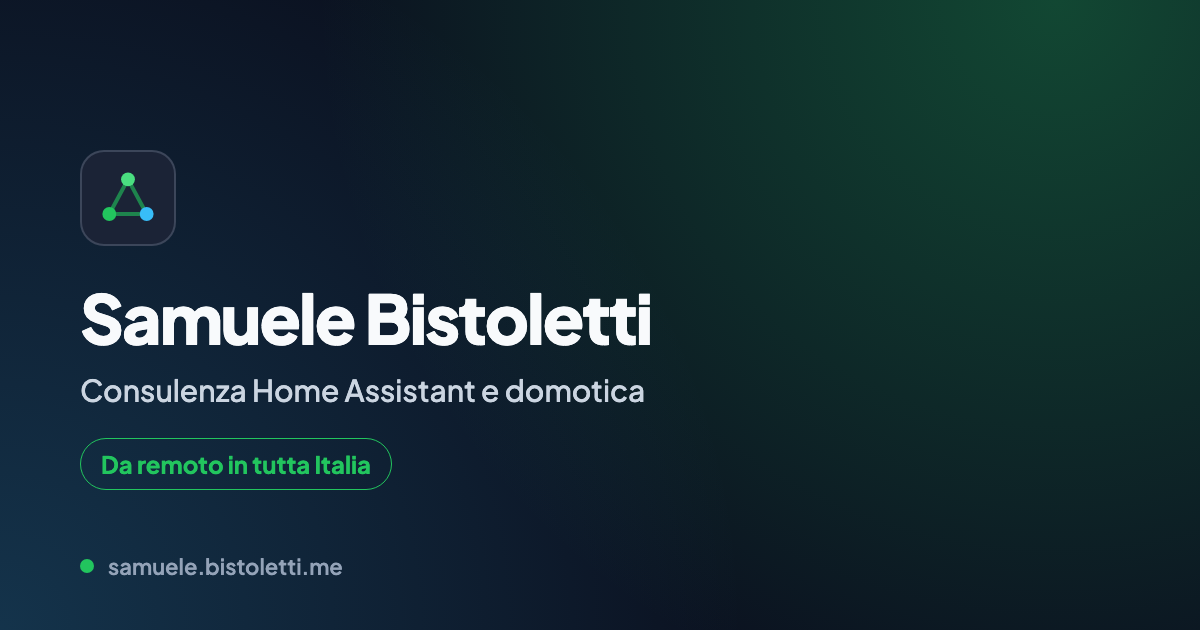
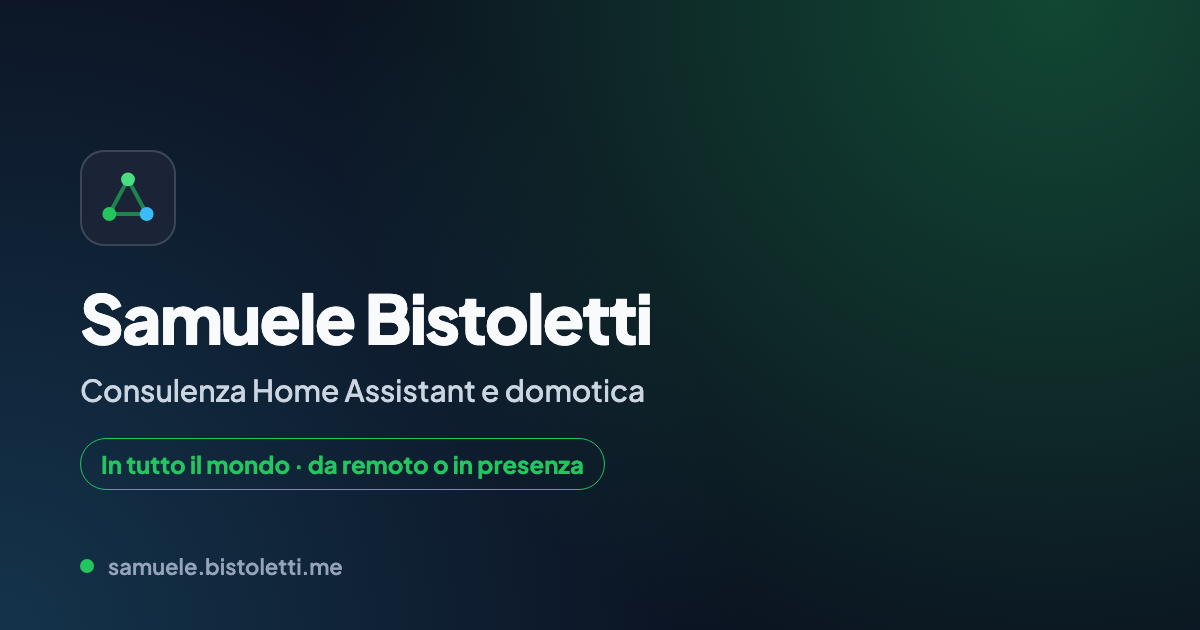
Describe the service area as worldwide, remote or on site
Claude-Session: https://claude.ai/code/session_015zqoz8zqJg5GfTg8uheYqB

Changed region(s): [[0.0925, 0.6937, 0.4933, 0.754]]

diff --git a/it/index.html b/it/index.html
@@ -72,7 +72,7 @@
           "Internet of Things",
           "MQTT"
         ],
-        "description": "Consulente indipendente Home Assistant e domotica, da remoto in tutta Italia.",
+        "description": "Consulente indipendente Home Assistant e domotica, in tutto il mondo, da remoto o in presenza.",
         "sameAs": [
           "https://github.com/samuelebistoletti",
           "https://www.linkedin.com/in/samuelebistoletti/"
@@ -82,9 +82,9 @@
         "@type": "Service",
         "name": "Consulenza Home Assistant e domotica",
         "serviceType": "Consulenza domotica",
-        "description": "Progettazione, configurazione, automazioni, gestione dell'energia e revisione di case smart con Home Assistant. Da remoto in tutta Italia, in presenza per i progetti più importanti.",
+        "description": "Progettazione, configurazione, automazioni, gestione dell'energia e revisione di case smart con Home Assistant. In tutto il mondo, da remoto o in presenza.",
         "provider": { "@id": "https://samuele.bistoletti.me/#person" },
-        "areaServed": { "@type": "Country", "name": "Italia" },
+        "areaServed": "Worldwide",
         "availableLanguage": ["it", "en"]
       },
       {
@@ -156,7 +156,7 @@
       <div class="wrap">
         <div class="hero-grid">
           <div class="hero-copy reveal">
-            <span class="pill"><span class="status-dot" aria-hidden="true"></span>Da remoto in tutta Italia</span>
+            <span class="pill"><span class="status-dot" aria-hidden="true"></span>In tutto il mondo · da remoto o in presenza</span>
             <h1><span class="h1-name">Samuele Bistoletti</span><span class="h1-sub">Consulenza Home Assistant e domotica</span></h1>
             <p class="hero-lead">
               <strong>Una casa smart che funziona davvero</strong>: semplice da usare, affidabile e sotto il tuo controllo.
@@ -386,7 +386,7 @@
           <div class="section-head">
             <span class="eyebrow">Prossimo passo</span>
             <h2>Parliamo della tua casa</h2>
-            <p>Un nuovo progetto o un impianto da migliorare: scegli il canale che preferisci. Lavoro da remoto in tutta Italia e, per i progetti più importanti, anche in presenza.</p>
+            <p>Un nuovo progetto o un impianto da migliorare: scegli il canale che preferisci. Lavoro con clienti in tutto il mondo, da remoto o in presenza a seconda del progetto.</p>
           </div>
 
           <div class="grid-2 contact-grid">

diff --git a/index.html b/index.html
@@ -72,7 +72,7 @@
           "Internet of Things",
           "MQTT"
         ],
-        "description": "Independent Home Assistant and smart home consultant, working remotely across Italy.",
+        "description": "Independent Home Assistant and smart home consultant, working with clients worldwide, remotely or on site.",
         "sameAs": [
           "https://github.com/samuelebistoletti",
           "https://www.linkedin.com/in/samuelebistoletti/"
@@ -82,9 +82,9 @@
         "@type": "Service",
         "name": "Home Assistant & smart home consulting",
         "serviceType": "Home automation consulting",
-        "description": "Design, setup, automations, energy management and reviews of Home Assistant smart homes. Remote across Italy, on site for larger projects.",
+        "description": "Design, setup, automations, energy management and reviews of Home Assistant smart homes. Worldwide, remotely or on site.",
         "provider": { "@id": "https://samuele.bistoletti.me/#person" },
-        "areaServed": { "@type": "Country", "name": "Italy" },
+        "areaServed": "Worldwide",
         "availableLanguage": ["it", "en"]
       },
       {
@@ -156,7 +156,7 @@
       <div class="wrap">
         <div class="hero-grid">
           <div class="hero-copy reveal">
-            <span class="pill"><span class="status-dot" aria-hidden="true"></span>Remote across Italy</span>
+            <span class="pill"><span class="status-dot" aria-hidden="true"></span>Worldwide · remote or on site</span>
             <h1><span class="h1-name">Samuele Bistoletti</span><span class="h1-sub">Home Assistant &amp; smart home consulting</span></h1>
             <p class="hero-lead">
               <strong>A smart home that simply works</strong>: easy to use, reliable and under your control.
@@ -386,7 +386,7 @@
           <div class="section-head">
             <span class="eyebrow">Next step</span>
             <h2>Let's talk about your home</h2>
-            <p>A new project or a setup to improve: pick whichever channel suits you. I work remotely across Italy, and come on site for larger projects.</p>
+            <p>A new project or a setup to improve: pick whichever channel suits you. I work with clients worldwide, remotely or on site depending on the project.</p>
           </div>
 
           <div class="grid-2 contact-grid">
